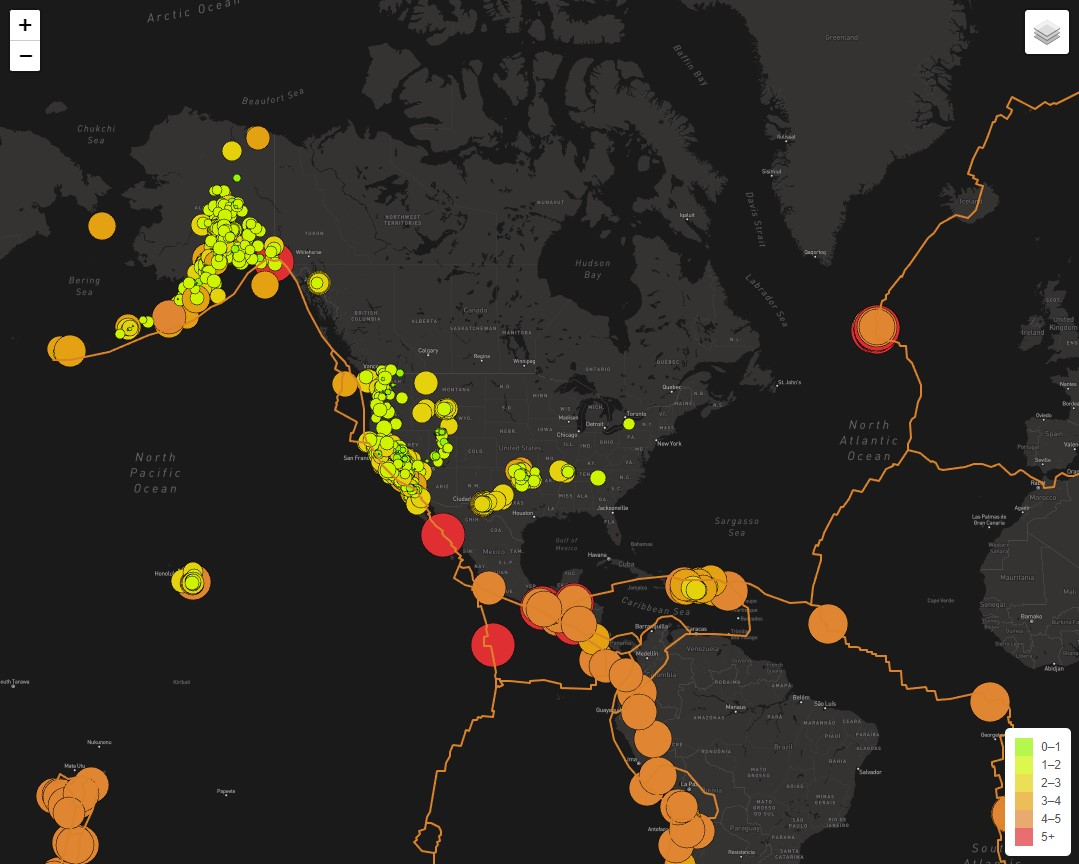
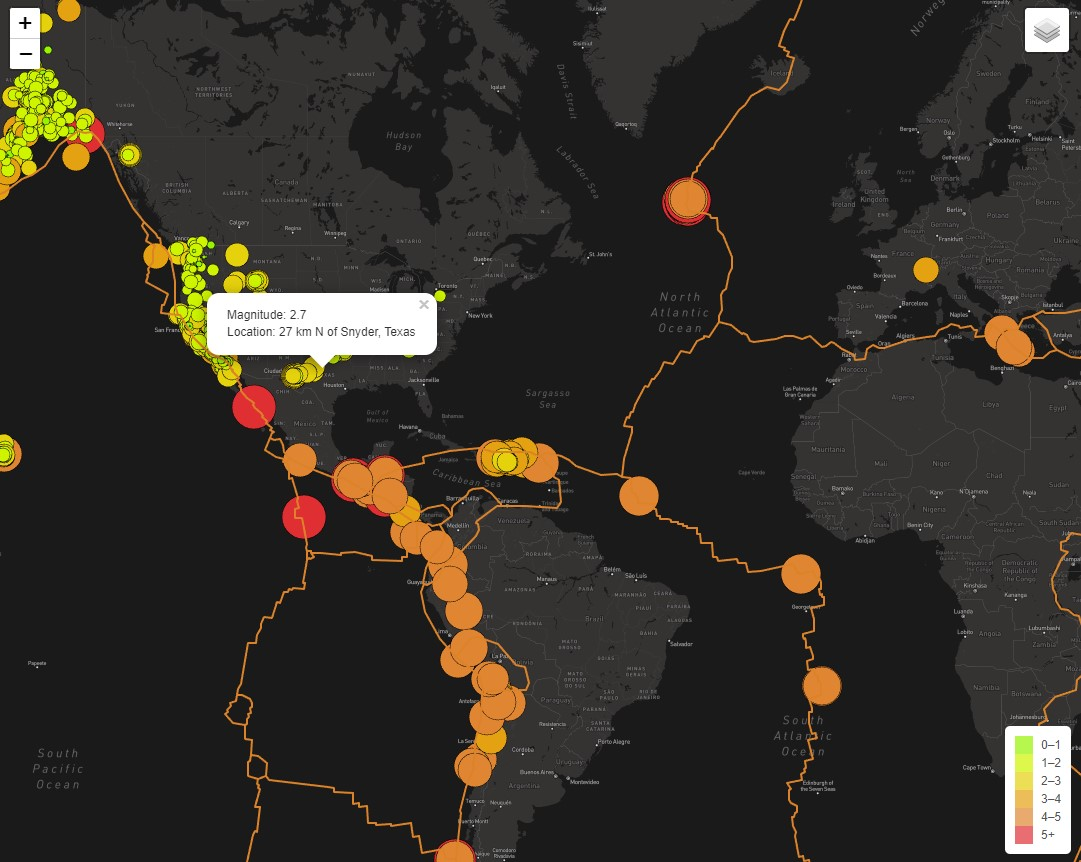
readme edits

diff --git a/README.md b/README.md
@@ -17,10 +17,10 @@ Interactive map created which details earthquake data within the last 7 days. In
 Below are some ways in which the users can interact with the map:
 
 #### *Dark Map with layers: all earthquakes and tectonic plates*
-![dark_all_earthquakes_tectonic_plates](https://user-images.githubusercontent.com/108373151/193431313-4ed781a2-9213-418e-b850-1875f601df09.jpg)
+![dark_all_earthquakes_tectonic_plates](https://user-images.githubusercontent.com/108373151/193431838-92021c22-0f7a-47a0-bdaa-325af6e1e43a.jpg)
 
 #### *Satellite Map with layers: major earthquakes M4.5+*
-![satellite_major_earthquakes](https://user-images.githubusercontent.com/108373151/193431316-aa4621f8-bf26-4b43-b254-372aeb4d3576.jpg)
+![satellite_major_earthquakes](https://user-images.githubusercontent.com/108373151/193431837-e6c35a76-d2f1-42f9-877f-f9d7841d0f24.jpg)
 
-#### *Sample Zoomed Map with layers: all earthquakes and tectonic plates with clickable popup*
+#### *Sample Zoomed Map with layers: all earthquakes and tectonic plates*
 ![zoomed_all_earthquakes](https://user-images.githubusercontent.com/108373151/193431359-1b7d32b7-9ea3-479d-bb39-a327f39f715f.jpg)
